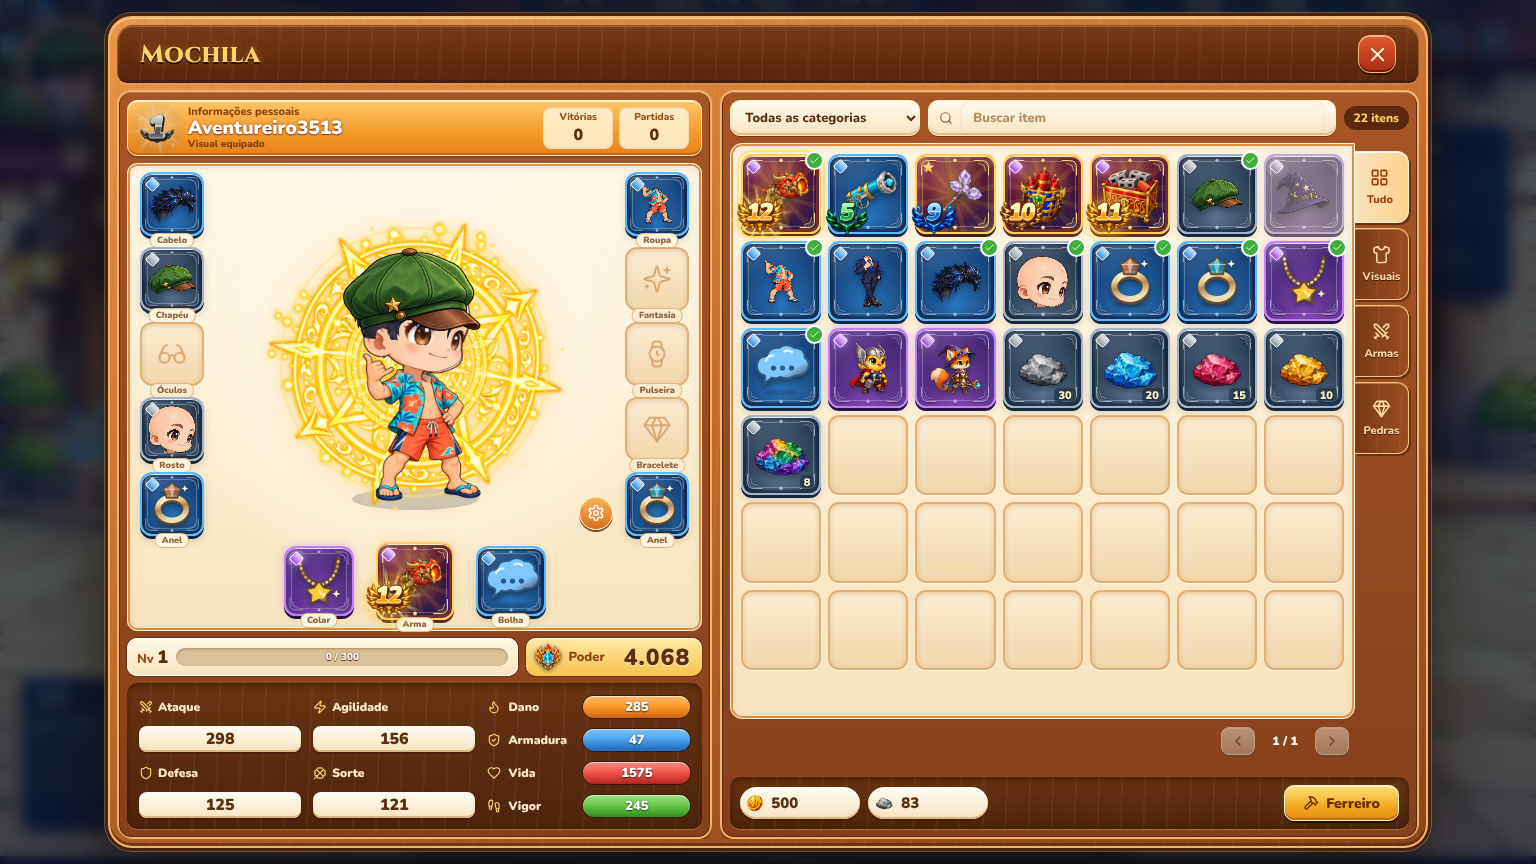
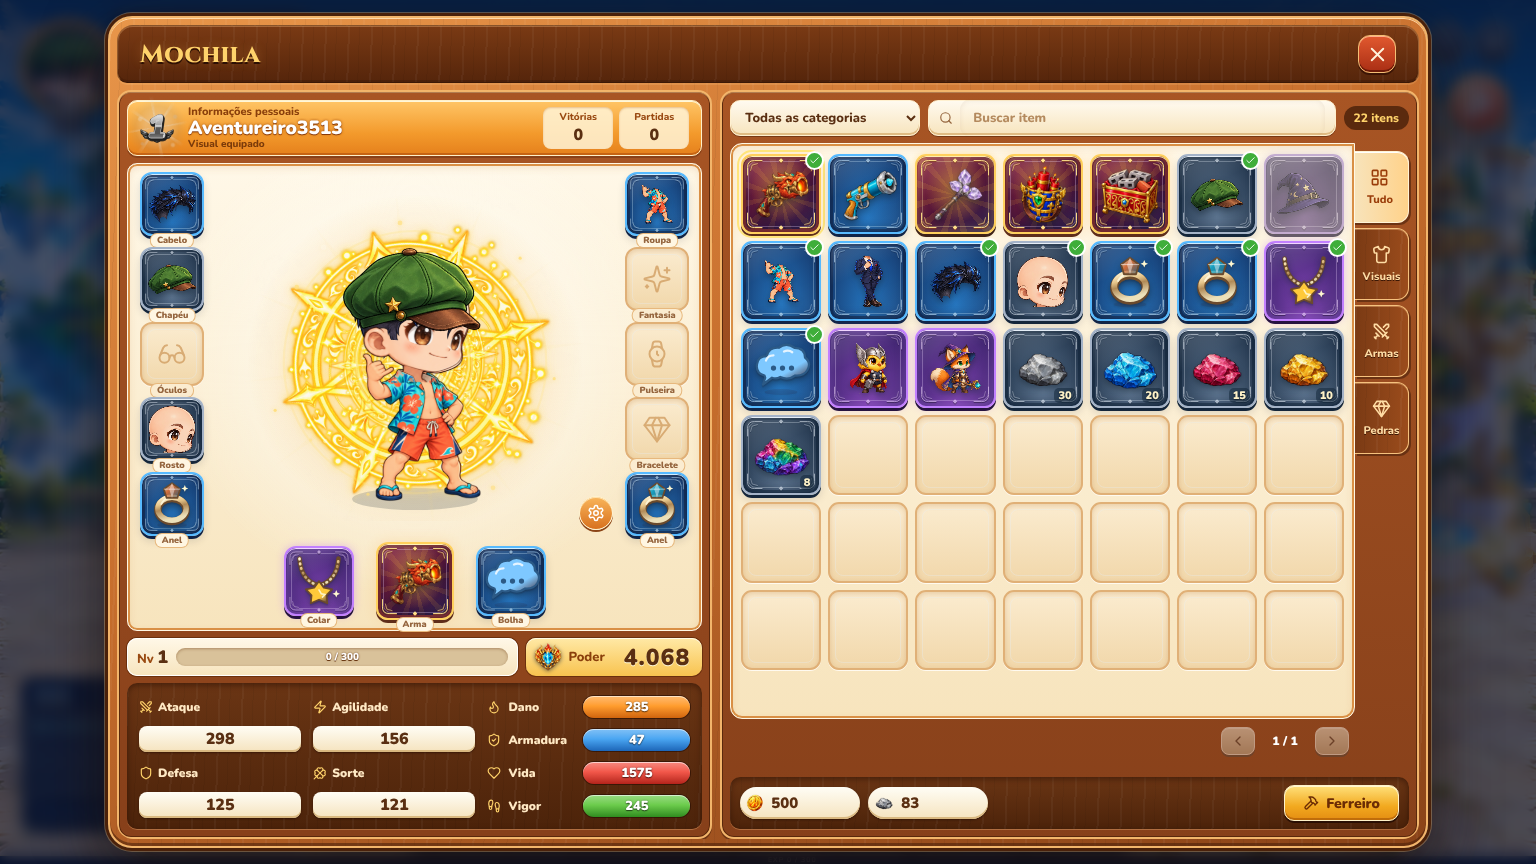
Mochila: cards sem gema de raridade, força só no hover
- Remove a gema de raridade do canto dos cards
- Selo de força da arma aparece só ao passar o mouse ou focar o card
- Hover não mostra mais "Clique/Toque para equipar"

Claude-Session: https://claude.ai/code/session_01T3DnNoGPBrqeA1x5S2iqZd

diff --git a/src/components/Backpack.css b/src/components/Backpack.css
@@ -695,35 +695,7 @@
 .bag-window .bag-action:hover:not(:disabled) { filter: brightness(1.06); transform: translateY(-1px); }
 .bag-window .bag-action:disabled { filter: grayscale(.7); opacity: .6; cursor: not-allowed; }
 
-/* ---------- Cards por classe: Comum, Normal, Épico, Lendário ---------- */
-:is(.bag-window, .smith-window) .item-card[data-tier][data-card-variant]:not([data-card-empty])::after {
-  content: '';
-  position: absolute;
-  left: 5px;
-  top: 5px;
-  z-index: 3;
-  width: 9px;
-  height: 9px;
-  border: 1.5px solid #fff;
-  border-radius: 2px;
-  transform: rotate(45deg);
-  box-shadow: 0 1px 2px #0007;
-  pointer-events: none;
-}
-:is(.bag-window, .smith-window) .item-card[data-tier="common"][data-card-variant]:not([data-card-empty])::after { background: linear-gradient(#e6ebee, #8d9aa3); }
-:is(.bag-window, .smith-window) .item-card[data-tier="normal"][data-card-variant]:not([data-card-empty])::after { background: linear-gradient(#bfe8ff, #2f8ff0); }
-:is(.bag-window, .smith-window) .item-card[data-tier="epic"][data-card-variant]:not([data-card-empty])::after { background: linear-gradient(#f4d6ff, #a54ae8); box-shadow: 0 0 6px #d18bff; }
-:is(.bag-window, .smith-window) .item-card[data-tier="legendary"][data-card-variant]:not([data-card-empty])::after {
-  width: 12px;
-  height: 12px;
-  border: 0;
-  border-radius: 0;
-  transform: none;
-  background: linear-gradient(#fff6c2, #ffb62a);
-  clip-path: polygon(50% 0, 62% 36%, 100% 38%, 70% 61%, 80% 100%, 50% 78%, 20% 100%, 30% 61%, 0 38%, 38% 36%);
-  filter: drop-shadow(0 0 3px #ffd34a);
-  box-shadow: none;
-}
+/* ---------- Cards por classe: Comum, Normal, Épico, Lendário (cor da carta, brilho no épico, pulso no lendário) ---------- */
 :is(.bag-window, .smith-window) .item-card[data-tier="epic"][data-card-variant]:not([data-card-empty]) {
   box-shadow: inset 0 1px var(--card-light), inset 0 0 12px #c47cff55, 0 3px 0 var(--card-shadow), 0 0 8px #b05cff55;
 }
@@ -742,6 +714,9 @@
   z-index: 5;
 }
 .bag-window .equipment-slots .item-card .bag-upgrade-tag { bottom: -4px; left: -12px; }
+/* Na mochila, a força da arma só aparece ao passar o mouse (ou focar) no card. */
+.bag-window .item-card .bag-upgrade-tag { opacity: 0; transform: scale(.8); transition: opacity .15s, transform .15s; }
+.bag-window .item-card:is(:hover, :focus-visible) .bag-upgrade-tag { opacity: 1; transform: none; }
 
 /* ---------- Card de informações (hover) ---------- */
 .inventory-tooltip.bag-tooltip {

diff --git a/src/components/Inventory.tsx b/src/components/Inventory.tsx
@@ -200,7 +200,7 @@ export function InventoryTooltip({tip,gender,equipment,upgrades,compositions,act
    {stats&&<div className="bag-tip-weapon"><span>Destruição <b>{stats.crater}</b></span><span>Ângulo <b>{stats.minAngle}°–{stats.maxAngle}°</b></span></div>}
    {!!composed.length&&<div className="bag-tip-composed">Composição: {composed.map(([stat,value])=>`${COMPOSITION_STAT_NAMES[stat as CompositionStat]} +${value}`).join(' · ')}</div>}
    {compatible&&!equipped&&hasAttributes&&target&&<div className="bag-tip-compare">Comparado com {CATALOG[equipment[target]]&&!isEmptyItem(equipment[target])?CATALOG[equipment[target]].name:'o slot vazio'}</div>}
-   {(action||!compatible||!equipped)&&<footer className={`bag-tip-foot ${action?'':!compatible?'blocked':''}`}>{action??(!compatible?'Incompatível com este personagem':tip.mode==='touch'?'Toque para equipar':'Clique para equipar')}</footer>}
+   {(action||!compatible)&&<footer className={`bag-tip-foot ${action?'':'blocked'}`}>{action??'Incompatível com este personagem'}</footer>}
   </>:<>
    <p className="bag-tip-desc">Material para fortalecer armas no ferreiro.</p>
    <dl className="bag-tip-stats"><div><dt>Potência</dt><dd>{stone?.power}</dd></div><div><dt>Nível</dt><dd>{stone?.level}</dd></div></dl>

diff --git a/docs/implementation-status.md b/docs/implementation-status.md
@@ -15,6 +15,12 @@
 - Materiais em `WoodTheme.css` (tokens e classes `wood-*`); `ArenaTheme.css`, `RoomSpectators.css` e `RoomInvitations.css` passaram para `.pvp-room`. Regras antigas da arena em `MobileOrientation.css` removidas.
 - Evidência: `npm run check`, `npm test` (232), `smoke-arena-hall`, `smoke-rooms`, `smoke-spectators`, `smoke-room-invites`, `smoke-loadout` e `smoke-mobile-landscape` passando. Prévias em `docs/previews/pvp-*.png`.
 
+## Mochila: cards mais limpos — 17/10/2026
+
+- Sem a gema de raridade no canto dos cards (a cor da carta, o brilho do épico e o pulso do lendário continuam).
+- Selo de força da arma só aparece ao passar o mouse ou focar o card; o hover continua mostrando o selo grande.
+- O hover não mostra mais "Clique/Toque para equipar"; só avisa quando o item é incompatível (ou o texto de ação do Ferreiro).
+
 ## Mochila: anéis, colar, bolha, classes e selos de nível — 17/10/2026
 
 - 13 slots: entram Anel ×2 (`ring` e `ring2`, mesma família; um anel só ocupa um slot), Colar (`necklace`) e Bolha (`bubble`). Pulseira e Bracelete são os 2 slots de pulseira. Anéis ficam na base das colunas laterais (Anel à esquerda, Anel à direita); fileira inferior só Colar, Arma e Bolha. Joias e bolha são invisíveis no boneco; a bolha ainda é só cosmética (sem efeito no chat).
